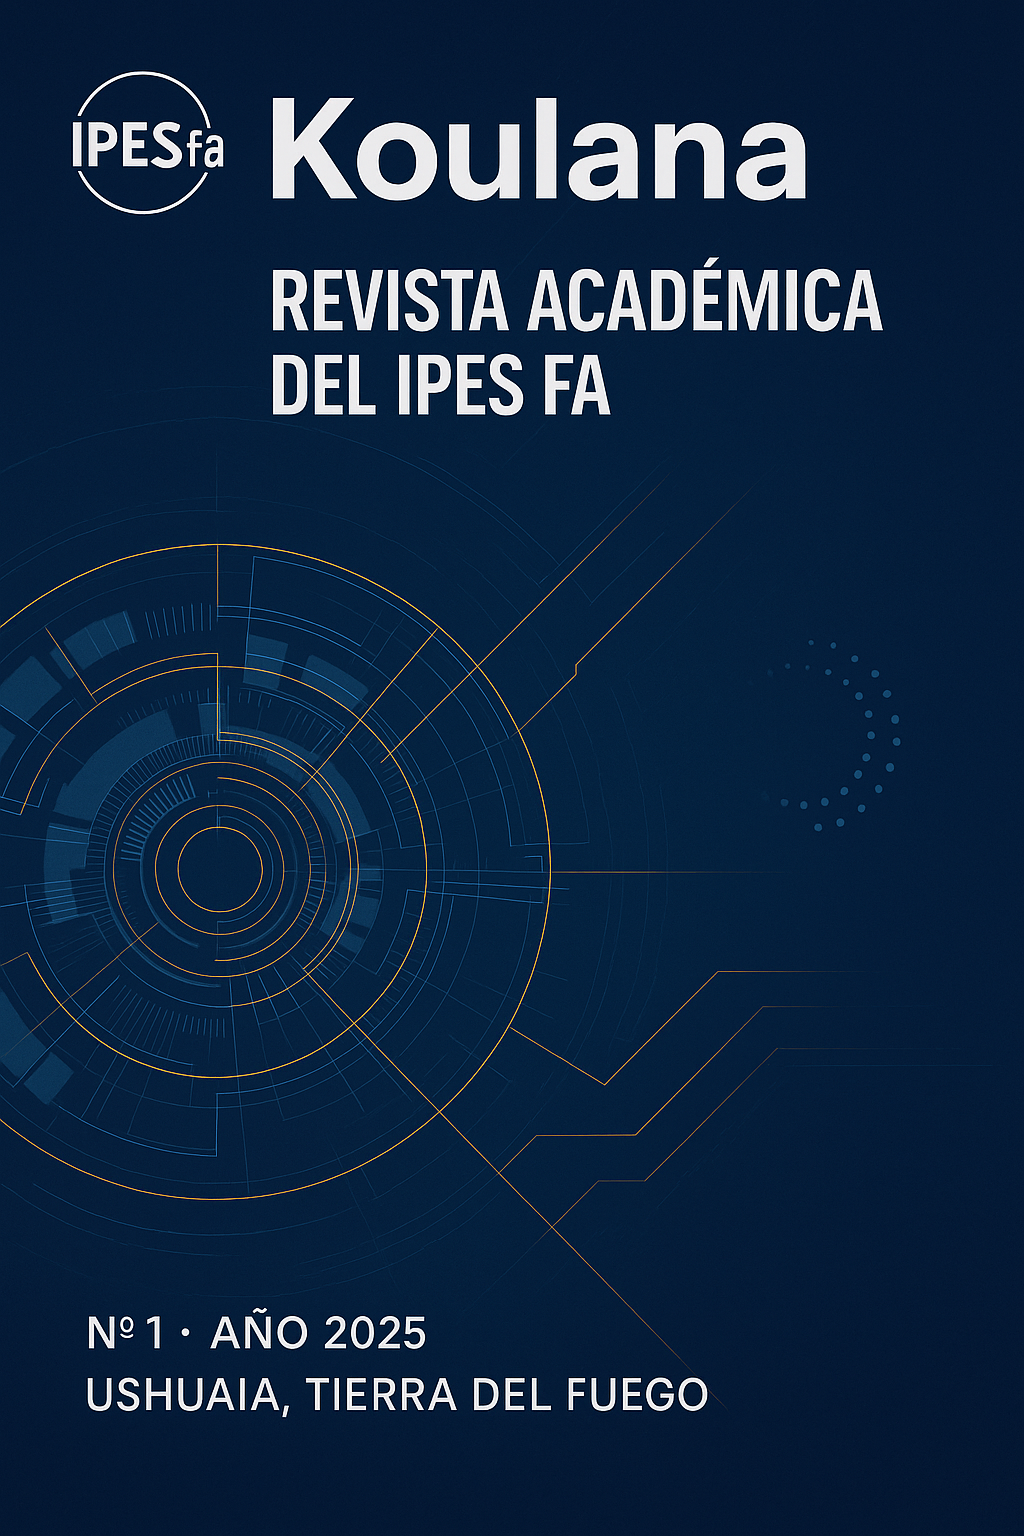
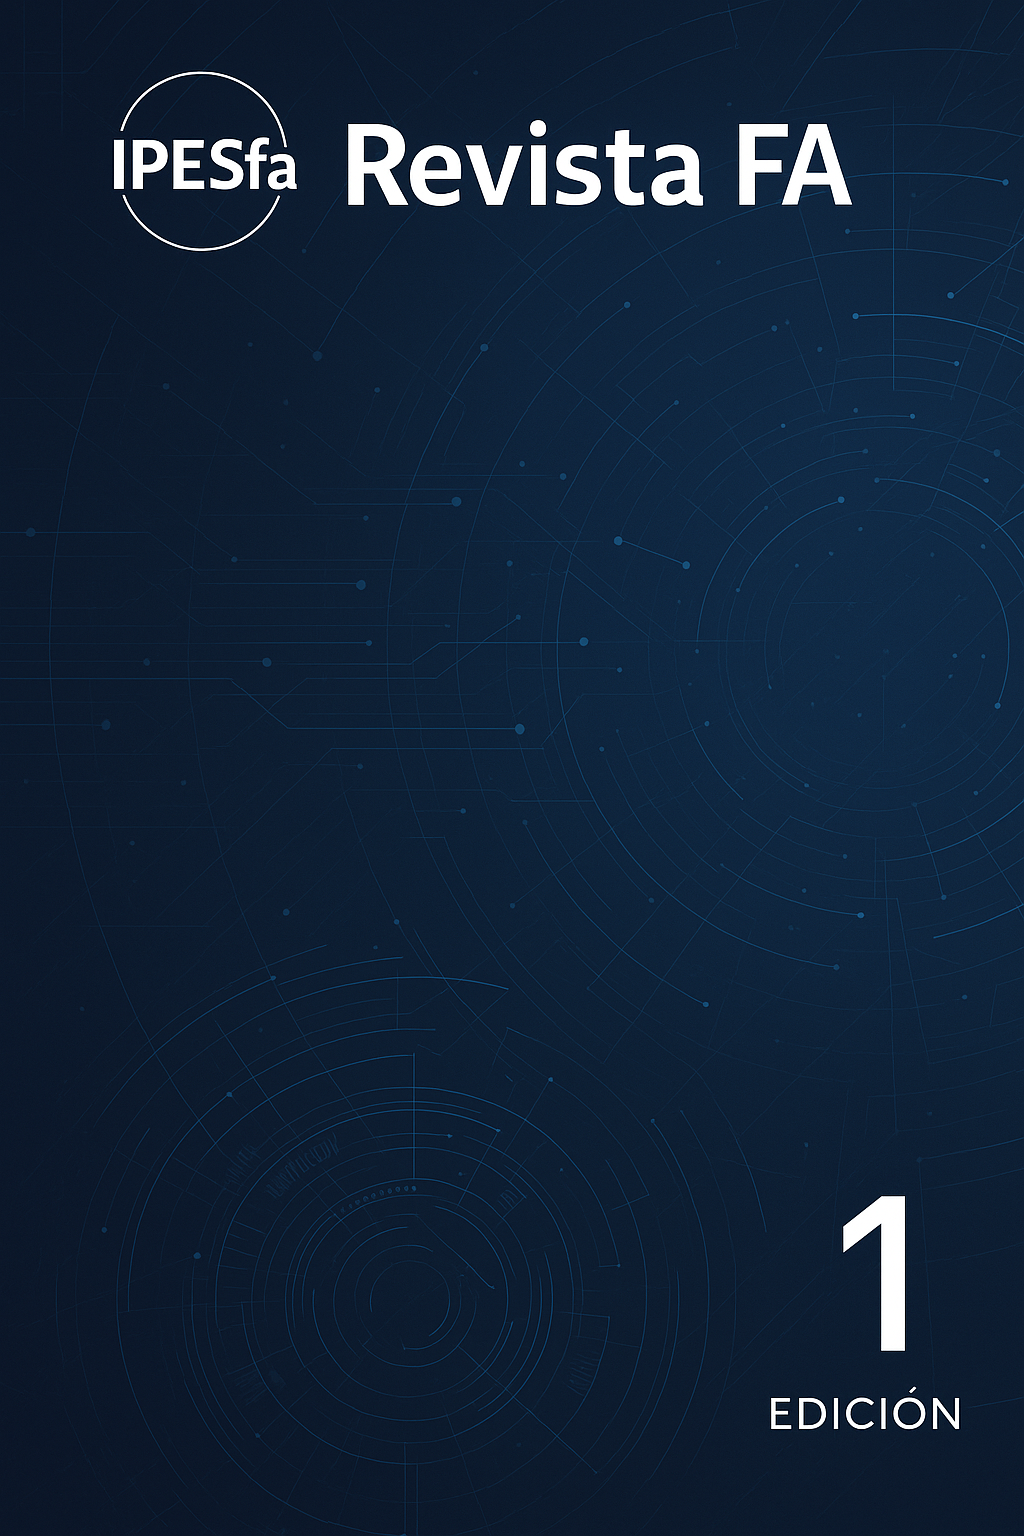
Actualización desde revista FA

diff --git a/app/actual/page.tsx b/app/actual/page.tsx
@@ -13,8 +13,8 @@ export default function ActualPage() {
     date: "Julio 2025",
     volume: "Volumen 7, Número 1",
     introduction:
-      "Este número de Koulana explora las transformaciones educativas post-pandemia y los nuevos paradigmas en la enseñanza superior. Incluye investigaciones sobre metodologías híbridas, el impacto de la inteligencia artificial en la educación, y estudios culturales sobre la adaptación de instituciones educativas a los desafíos contemporáneos.",
-    pdfUrl: "/downloads/koulana-vol7-num1.pdf",
+      "Este número de Revisfa FA explora las transformaciones educativas post-pandemia y los nuevos paradigmas en la enseñanza superior. Incluye investigaciones sobre metodologías híbridas, el impacto de la inteligencia artificial en la educación, y estudios culturales sobre la adaptación de instituciones educativas a los desafíos contemporáneos.",
+    pdfUrl: "/downloads/revistafa-vol7-num1.pdf",
     coverImage: "/placeholder.svg?height=600&width=400",
     articles: [
       {

diff --git a/components/footer.tsx b/components/footer.tsx
@@ -6,7 +6,7 @@ export function Footer() {
       <div className="container flex flex-col items-center justify-between gap-4 px-4 md:flex-row md:px-6">
         <div className="flex flex-col items-center gap-2 md:items-start">
           <Link href="/" className="flex items-center">
-            <span className="text-xl font-bold text-blue-800">Koulana</span>
+            <span className="text-xl font-bold text-blue-800">Revista FA</span>
           </Link>
           <p className="text-center text-sm text-gray-500 md:text-left">
             Revista Académica del IPES FA. Publicación semestral de temas de educación y cultura.
@@ -22,7 +22,7 @@ export function Footer() {
             </Link>
           </nav>
           <p className="text-center text-xs text-gray-400 md:text-right">
-            © {new Date().getFullYear()} Koulana. Todos los derechos reservados.
+            © {new Date().getFullYear()} Revista FA. Todos los derechos reservados.
           </p>
         </div>
       </div>

diff --git a/app/page.tsx b/app/page.tsx
@@ -11,7 +11,7 @@ export default function Home() {
             <div className="grid gap-6 lg:grid-cols-2 lg:gap-12">
               <div className="flex flex-col justify-center space-y-4">
                 <div className="space-y-2">
-                  <h1 className="text-4xl font-bold tracking-tighter text-blue-800 sm:text-5xl md:text-6xl">Koulana</h1>
+                  <h1 className="text-4xl font-bold tracking-tighter text-blue-800 sm:text-5xl md:text-6xl">1ra Edición</h1>
                   <h2 className="text-xl font-medium text-gray-600 sm:text-2xl">Revista Académica del IPES FA</h2>
                   <p className="max-w-[600px] text-gray-500 md:text-xl">
                     Publicación semestral de temas de educación y cultura.

diff --git a/app/archivos/page.tsx b/app/archivos/page.tsx
@@ -83,7 +83,7 @@ export default function ArchivosPage() {
       <div className="mb-8 md:mb-12">
         <h1 className="text-3xl font-bold tracking-tight text-gray-900 sm:text-4xl md:text-5xl">Archivos</h1>
         <p className="mt-4 text-lg text-gray-600 max-w-3xl">
-          Explora los números anteriores de la revista académica Koulana. Cada edición ofrece investigaciones, análisis
+          Explora los números anteriores de la revista académica FA. Cada edición ofrece investigaciones, análisis
           y reflexiones sobre temas relevantes en educación y cultura.
         </p>
         <Separator className="my-6" />

diff --git a/components/header.tsx b/components/header.tsx
@@ -38,7 +38,7 @@ export function Header() {
               <div className="relative h-12 w-12 mr-4">
                 <Image src="/logo-ipesfa.png" alt="Logo IPES FA" fill className="object-contain" />
               </div>
-              <span className="font-sans text-3xl md:text-4xl font-semibold text-blue-800">Koulana</span>
+              <span className="font-sans text-3xl md:text-4xl font-semibold text-blue-800">Revista FA</span>
             </Link>
           </div>
 
